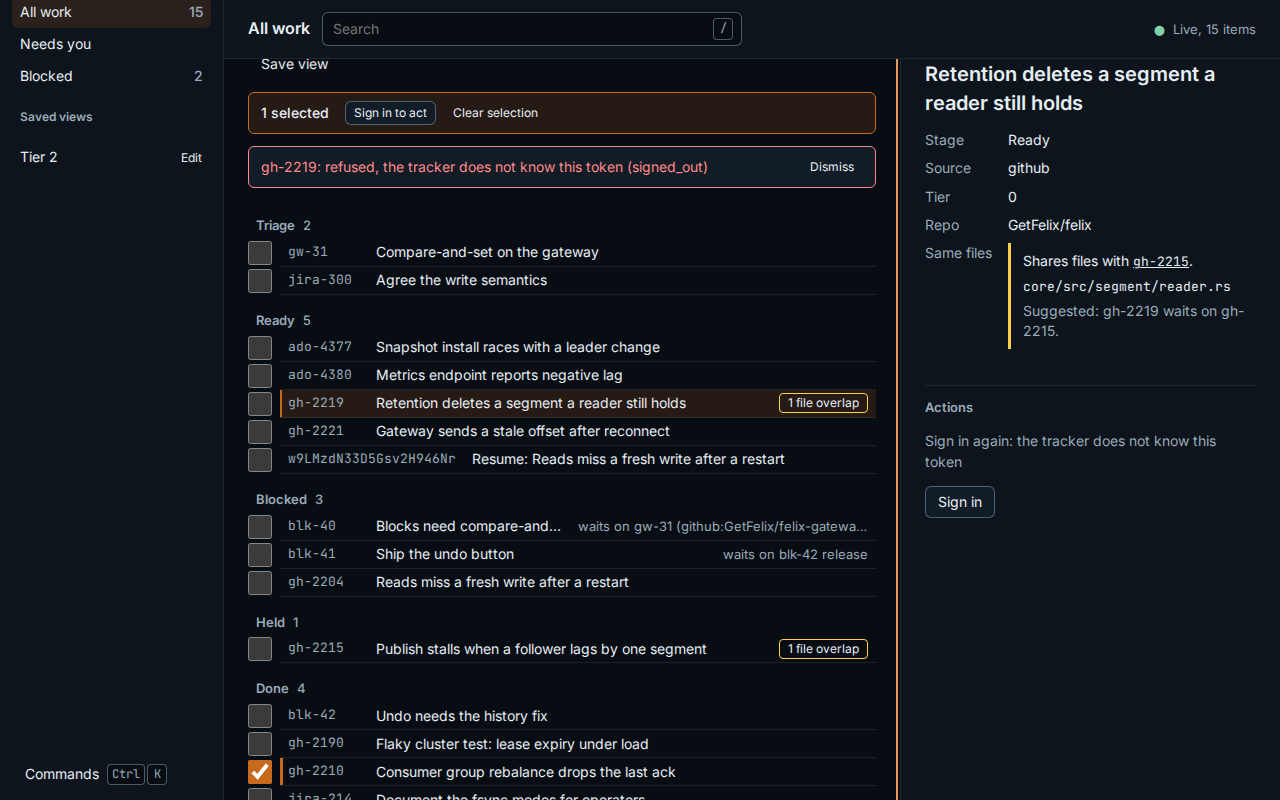
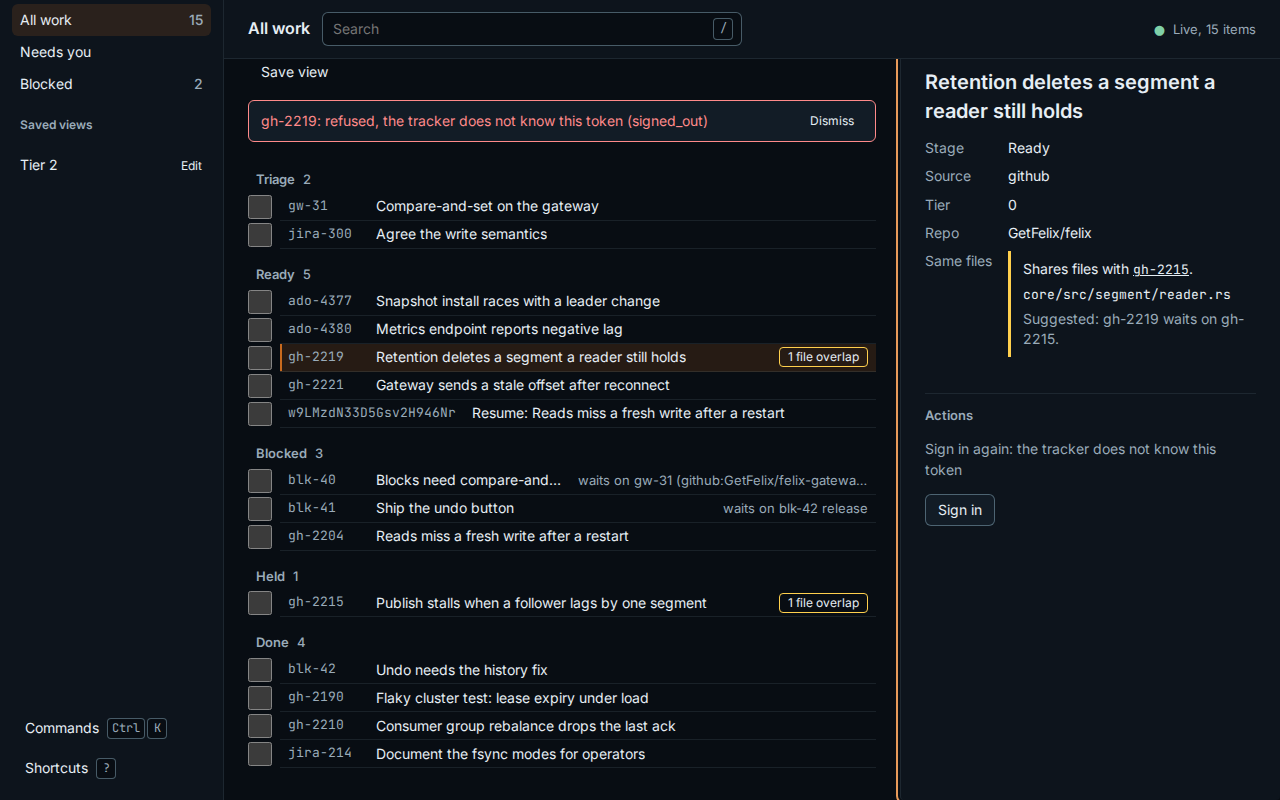
Address review: answer is an option or text, marks act only where shown, bulk accept keeps tiers
Undo shows once the tier change is back on the log; the activity line stays on the newest
batch; only a 401 or 403 signs the page out; a second click does not resend; focus stays in
the panel actions when they rebuild; sign-in checks ?team= is one of the person's teams.

diff --git a/dashboard/src/main.ts b/dashboard/src/main.ts
@@ -11,7 +11,7 @@ import { overlapNotes } from './overlap.ts';
 import { follow, FollowError } from './follow.ts';
 import { connect, GatewayError } from './gateway.ts';
 import { commandFor, type CommandId } from './keys.ts';
-import { boardEdge, flatten, move, moveBoard, shownRows, visible } from './list.ts';
+import { boardEdge, flatten, markedShown, move, moveBoard, shownRows, visible } from './list.ts';
 import { adviceFor, createStore, fromAddress, toAddress, type Density, type View, type ViewState } from './state.ts';
 import { deleteView, parseSaved, renameView, saveView, type SavedView } from './views.ts';
 import { helpView } from './ui/help-view.ts';
@@ -20,7 +20,7 @@ import { shell } from './ui/shell.ts';
 import { viewDialog } from './ui/view-dialog.ts';
 import { confirmDialog, signInDialog, type ConfirmKind } from './ui/write-dialogs.ts';
 import { Tracker } from './tracker.ts';
-import { CAN, NO_WRITES, request, undoFor, undoRequest, type Request, type Undo, type WriteArgs, type WriteKind } from './writes.ts';
+import { CAN, canUndo, NO_WRITES, pending, request, undoFor, undoRequest, type Request, type Undo, type WriteArgs, type WriteKind } from './writes.ts';
 
 const mac = /Mac|iPhone|iPad/.test(navigator.platform);
 const q = new URLSearchParams(location.search);
@@ -78,7 +78,8 @@ let writeIds = 0;
 /** What an action applies to: the marked items, else the selected one. */
 const targets = (): string[] => {
   const s = store.get();
-  if (s.marked.length) return s.marked;
+  const marked = markedShown(s);
+  if (marked.length) return marked.map((i) => i.id);
   return s.selected && s.items.some((i) => i.id === s.selected) ? [s.selected] : [];
 };
 
@@ -101,7 +102,7 @@ async function send(kind: WriteKind, jobs: { item: string; req: Request | string
     if (o.status === 'ok') store.dispatch({ type: 'write', write: { ...w, status: 'ok' } });
     else {
       store.dispatch({ type: 'write', write: { ...w, status: o.status, reason: o.reason, why: o.status === 'refused' ? o.why : undefined, undo: undefined } });
-      if (o.status === 'refused' && (o.why === 'signed_out' || o.why === 'forbidden') && t === tracker) {
+      if (o.status === 'refused' && o.signedOut && t === tracker) {
         tracker = null;
         store.dispatch({ type: 'tracker', tracker: { kind: 'refused', reason: o.reason } });
       }
@@ -111,18 +112,23 @@ async function send(kind: WriteKind, jobs: { item: string; req: Request | string
 
 const write = (ids: string[], args: WriteArgs) => {
   const s = store.get();
-  const jobs = ids.map((item) => {
+  // A second click while the first is in flight would send the same record twice.
+  const jobs = ids.filter((item) => !pending(s.writes, item)).map((item) => {
     const before = s.items.find((i) => i.id === item);
     const undo = args.kind === 'tier' && before ? undoFor(before, args.tier) : undefined;
     return { item, req: request(item, args), undo: typeof undo === 'object' ? undo : undefined };
   });
+  if (!jobs.length) return;
+  // Marks are done with once their action is sent, as in GitHub.
+  if (s.marked.length && ids.every((id) => s.marked.includes(id)) && ids.length > 0) store.dispatch({ type: 'marks', ids: [] });
   void send(args.kind, jobs);
 };
 
 const undoLast = () => {
   const s = store.get();
-  const done = s.writes.list.filter((w) => w.batch === s.writes.last && w.status === 'ok' && w.undo);
-  if (!done.length) return;
+  const batch = s.writes.list.filter((w) => w.batch === s.writes.last);
+  if (!canUndo(batch, s.items)) return;
+  const done = batch.filter((w) => w.status === 'ok' && w.undo);
   void send('undo', done.map((w) => ({ item: w.item, req: undoRequest(w.undo!, s.items) })));
 };
 
@@ -132,9 +138,14 @@ const signIn = async (token: string): Promise<string | null> => {
   const t = new Tracker((url, init) => fetch(url, init), token, team);
   const me = await t.me();
   if ('person' in me) {
-    if (!team && me.teams.length > 1) {
-      const reason = `You are in ${me.teams.length} teams; open the page with ?team= naming one (${me.teams.join(', ')}).`;
-      store.dispatch({ type: 'tracker', tracker: { kind: 'refused', reason } });
+    const reason =
+      !team && me.teams.length > 1
+        ? `You are in ${me.teams.length} teams; open the page with ?team= naming one (${me.teams.join(', ')}).`
+        : team && !me.teams.includes(team)
+          ? `You are not in the team ${team}; open the page with ?team= naming one of yours (${me.teams.join(', ')}).`
+          : null;
+    if (reason) {
+      store.dispatch({ type: 'tracker', tracker: tracker && before.kind === 'signed-in' ? before : { kind: 'refused', reason } });
       return reason;
     }
     tracker = t;

diff --git a/dashboard/src/writes.ts b/dashboard/src/writes.ts
@@ -80,6 +80,8 @@ export function request(item: string, a: WriteArgs): Request {
 /** What an answer form would send, or what is wrong with it (WCAG 3.3.1, 3.3.3). */
 export function checkAnswer(options: readonly string[], text: string, chosen: string | null): string | null {
   if (options.length > 0 && chosen === null && !text.trim()) return 'Pick an option, or write an answer.';
+  // The tracker takes one or the other, never both.
+  if (chosen !== null && text.trim()) return 'Pick an option or write an answer, not both. Clear the text to send the option.';
   if (options.length === 0 && !text.trim()) return 'Write an answer.';
   if (chosen !== null && !options.includes(chosen)) return 'That option is no longer offered.';
   // The tracker refuses inline text over 4 KiB; say so before sending.
@@ -89,7 +91,7 @@ export function checkAnswer(options: readonly string[], text: string, chosen: st
 
 export type Outcome =
   | { status: 'ok'; offset: number | null }
-  | { status: 'refused'; why: string; reason: string }
+  | { status: 'refused'; why: string; reason: string; signedOut?: true }
   | { status: 'failed'; reason: string };
 
 /**
@@ -103,8 +105,9 @@ export function outcome(status: number | null, body: unknown, network = ''): Out
   const why = typeof b.why === 'string' ? b.why : '';
   if (status === null) return { status: 'failed', reason: `Cannot reach the tracker${network ? `: ${network}` : ''}.` };
   if (status >= 200 && status < 300) return { status: 'ok', offset: typeof b.offset === 'number' ? b.offset : null };
-  if (status === 401) return { status: 'refused', why: why || 'signed_out', reason: error || 'The tracker does not know this token. Sign in again.' };
-  if (status === 403) return { status: 'refused', why: why || 'forbidden', reason: error || 'This token may not make that write.' };
+  // Only the status says the token itself was refused; a `why` in a 409 is the fold's.
+  if (status === 401) return { status: 'refused', why: why || 'signed_out', reason: error || 'The tracker does not know this token. Sign in again.', signedOut: true };
+  if (status === 403) return { status: 'refused', why: why || 'forbidden', reason: error || 'This token may not make that write.', signedOut: true };
   if (status === 400 || status === 404 || status === 409 || status === 422) {
     return { status: 'refused', why: why || String(status), reason: error || `The tracker refused it (${status}).` };
   }
@@ -145,6 +148,7 @@ export function undoRequest(u: Undo, items: readonly ItemRow[]): Request | strin
   const now = items.find((i) => i.id === u.item);
   if (!now) return `${u.item} is no longer in the log.`;
   if (!OPEN(now)) return `${u.item} is closed now.`;
+  if (now.tier === u.tier) return `${u.item}'s tier change has not come back on the log yet; try again in a moment.`;
   if (now.tier !== u.set) return `${u.item}'s tier changed again since; undo would overwrite that.`;
   return request(u.item, { kind: 'tier', tier: u.tier });
 }
@@ -176,7 +180,8 @@ const KEEP = 50;
 export function putWrite(w: Writes, write: Write): Writes {
   const at = w.list.findIndex((x) => x.id === write.id);
   const list = at < 0 ? [...w.list, write] : w.list.map((x, i) => (i === at ? write : x));
-  return { list: list.slice(-KEEP), last: write.batch };
+  // Batches can finish out of order; the activity line stays on the newest.
+  return { list: list.slice(-KEEP), last: Math.max(w.last ?? 0, write.batch) };
 }
 
 /** The newest write for an item, which the panel shows next to its actions. */
@@ -199,6 +204,12 @@ const DONE: Readonly<Record<WriteKind, [string, string]>> = {
 };
 
 const items = (ids: string[]) => (ids.length === 1 ? ids[0] : `${ids.length} items`);
+
+/** Whether Undo applies now: every undoable write's tier is on the log and nobody changed it since. */
+export function canUndo(batch: readonly Write[], items: readonly ItemRow[]): boolean {
+  const undos = batch.filter((x) => x.status === 'ok' && x.undo);
+  return undos.length > 0 && undos.every((x) => typeof undoRequest(x.undo!, items) !== 'string');
+}
 
 /** One line for the activity area: what is pending, what was written, and each refusal with its reason. */
 export function summary(batch: readonly Write[]): { text: string; tone: 'busy' | 'ok' | 'error'; undoable: boolean } {

diff --git a/dashboard/test/writes.test.ts b/dashboard/test/writes.test.ts
@@ -3,7 +3,7 @@ import test from 'node:test';
 import type { ItemRow } from '../src/fold.ts';
 import { reduce, type ViewState } from '../src/state.ts';
 import { Tracker, type Fetch } from '../src/tracker.ts';
-import { CAN, checkAnswer, latestFor, NO_WRITES, outcome, pending, putWrite, request, route, summary, undoFor, undoRequest, type Write } from '../src/writes.ts';
+import { CAN, canUndo, checkAnswer, latestFor, NO_WRITES, outcome, pending, putWrite, request, route, summary, undoFor, undoRequest, type Write } from '../src/writes.ts';
 
 const item = (o: Partial<ItemRow> & { id: string }): ItemRow => ({ title: o.id, stage: 'ready', tier: 1, ...o });
 
@@ -40,6 +40,8 @@ test('an answer form names what is missing before anything is sent', () => {
   assert.equal(checkAnswer(['a', 'b'], '', null), 'Pick an option, or write an answer.');
   assert.equal(checkAnswer(['a'], '', 'a'), null);
   assert.equal(checkAnswer(['a'], '', 'gone'), 'That option is no longer offered.');
+  // The tracker refuses an answer with both an option and text.
+  assert.match(checkAnswer(['a'], 'and also', 'a')!, /not both/);
   assert.match(checkAnswer([], 'x'.repeat(5000), null)!, /4 KiB/);
 });
 
@@ -51,6 +53,9 @@ test('a refusal keeps the tracker’s own reason and code', () => {
     reason: 'the fold refused the record: not a proposal',
   });
   assert.equal((outcome(401, null) as { why: string }).why, 'signed_out');
+  // Only a 401 or 403 signs the page out, never a fold refusal that happens to say so.
+  assert.equal((outcome(401, null) as { signedOut?: true }).signedOut, true);
+  assert.equal((outcome(409, { error: 'x', why: 'forbidden' }) as { signedOut?: true }).signedOut, undefined);
   assert.equal(outcome(503, { error: 'team busy' }).status, 'failed');
   assert.match((outcome(null, null, 'Failed to fetch') as { reason: string }).reason, /Cannot reach the tracker: Failed to fetch/);
 });
@@ -66,6 +71,10 @@ test('only a tier change can be undone, and only while nobody changed it again',
   assert.match(undoRequest(u, [item({ id: 'a', tier: 0 })]) as string, /changed again since/);
   assert.match(undoRequest(u, [item({ id: 'a', tier: 3, stage: 'closed' })]) as string, /closed now/);
   assert.match(undoRequest(u, []) as string, /no longer in the log/);
+  // Until the change comes back on the log there is nothing to undo yet.
+  assert.match(undoRequest(u, [item({ id: 'a', tier: 1 })]) as string, /not come back/);
+  const ok = { id: 1, batch: 1, kind: 'tier' as const, item: 'a', status: 'ok' as const, undo: u };
+  assert.deepEqual([canUndo([ok], [item({ id: 'a', tier: 1 })]), canUndo([ok], [item({ id: 'a', tier: 3 })])], [false, true]);
 });
 
 test('the write list moves from pending to a result and says so in one line', () => {
@@ -80,6 +89,9 @@ test('the write list moves from pending to a result and says so in one line', ()
   assert.equal(latestFor(ws, 'b')?.status, 'refused');
   assert.deepEqual(summary(ws.list), { text: 'Set the tier of a. b: refused, the item is closed (closed)', tone: 'error', undoable: true });
   assert.equal(ws.last, 1);
+  // A slower, older batch finishing late does not take the activity line back.
+  const later = putWrite(putWrite(ws, w({ id: 3, item: 'c', batch: 2 })), { ...ws.list[0], batch: 1, status: 'failed', reason: 'x' });
+  assert.equal(later.last, 2);
 });
 
 test('marks toggle, and a mark on an item the log no longer has is dropped', () => {
@@ -116,4 +128,8 @@ test('the Needs you inbox is a view in the address that holds only items waiting
   assert.equal(encodeView('', { view: 'inbox', layout: 'list', query: '', filters: {} }), 'view=inbox');
   const items = [item({ id: 'a', stage: 'needs_you', needs: 'question' }), item({ id: 'b' })];
   assert.deepEqual(inScope({ items, blocked: [], view: 'inbox' }).map((i) => i.id), ['a']);
+  // A bulk action reaches only the marks the view shows.
+  const { markedShown } = await import('../src/list.ts');
+  const marks = { items, blocked: [], view: 'all' as const, query: 'b', filters: {}, marked: ['a', 'b'] };
+  assert.deepEqual(markedShown(marks).map((i) => i.id), ['b']);
 });

diff --git a/dashboard/src/ui/item-actions.ts b/dashboard/src/ui/item-actions.ts
@@ -46,6 +46,7 @@ const PENDING: Record<WriteKind, string> = {
 export function itemActions(on: WriteHandlers) {
   const el = h('section', { class: 'actions', 'aria-labelledby': 'actions-title' });
   let built = '';
+  let auth = '';
   let tier: HTMLSelectElement | null = null;
   let status: HTMLElement = h('p');
   const guard = (s: () => ViewState, item: string, run: () => void) => () => {
@@ -70,7 +71,7 @@ export function itemActions(on: WriteHandlers) {
       h('h4', { id: 'answer-title' }, 'Answer the question'),
       h('p', { class: 'question' }, asked ?? 'The question’s text is stored as an artifact, outside the log.'),
       radios.length ? h('fieldset', {}, h('legend', { class: 'field-label' }, 'Options'), ...radios) : null,
-      h('label', { for: 'answer-text', class: 'field-label' }, radios.length ? 'Answer in words (optional with an option)' : 'Answer'),
+      h('label', { for: 'answer-text', class: 'field-label' }, radios.length ? 'Or answer in words instead' : 'Answer'),
       text,
       h('p', { id: 'answer-help', class: 'muted small' }, 'Sending cannot be undone: the answer starts the work that resumes from it.'),
       error,
@@ -98,10 +99,13 @@ export function itemActions(on: WriteHandlers) {
     render(item: ItemRow, s: ViewState): HTMLElement {
       current = () => s;
       const kinds = (Object.keys(CAN) as (keyof typeof CAN)[]).filter((k) => CAN[k](item));
-      const key = `${item.id}|${kinds.join(',')}|${s.tracker.kind}|${item.question}|${(item.options ?? []).join('\u0000')}|${item.question == null ? '' : s.questions.get(item.question)}`;
+      // `checking` keeps the last sign-in state, so checking a token does not rebuild the form.
+      if (s.tracker.kind !== 'checking') auth = s.tracker.kind === 'refused' ? `refused:${s.tracker.reason}` : s.tracker.kind;
+      const key = `${item.id}|${kinds.join(',')}|${auth}|${item.question}|${(item.options ?? []).join('\u0000')}|${item.question == null ? '' : s.questions.get(item.question)}`;
       if (key !== built) {
         built = key;
-        const head = h('h3', { id: 'actions-title', class: 'actions-title' }, 'Actions');
+        const hadFocus = el.contains(document.activeElement) ? ((document.activeElement as HTMLElement).dataset.focus ?? '') : null;
+        const head = h('h3', { id: 'actions-title', class: 'actions-title', tabindex: '-1' }, 'Actions');
         status = h('p', { class: 'write-status' });
         tier = null;
         if (kinds.length === 0) {
@@ -126,6 +130,11 @@ export function itemActions(on: WriteHandlers) {
             kinds.includes('answer') ? answerForm(item, s) : null,
             status];
           el.replaceChildren(...parts.filter((p): p is HTMLElement => p !== null));
+        }
+        // The control that had the focus is gone (the item moved stage, say); keep it in the actions.
+        if (hadFocus !== null && !el.contains(document.activeElement)) {
+          const same = hadFocus ? el.querySelector<HTMLElement>(`[data-focus="${hadFocus}"]`) : null;
+          (same ?? head).focus({ preventScroll: true });
         }
       }
       // In place: what the last write on this item did, and whether one is in flight.

diff --git a/dashboard/src/ui/write-dialogs.ts b/dashboard/src/ui/write-dialogs.ts
@@ -28,6 +28,12 @@ export function confirmDialog(send: (ids: string[], args: WriteArgs) => void) {
       const c = COPY[kind];
       const name = list.length === 1 ? list[0].id : `${list.length} items`;
       const tier = kind === 'accept' ? tierSelect('confirm-tier', list.length === 1 ? list[0].tier : null) : null;
+      // Several proposals may carry different tiers; by default each keeps its own.
+      if (tier && list.length > 1) {
+        const keep = h('option', { value: '' }, 'Keep each item’s tier');
+        tier.prepend(keep);
+        keep.selected = true;
+      }
       const why = kind === 'close' ? h('select', { id: 'confirm-why', class: 'field select' }, ...CLOSE_WHY.map(([v, label]) => h('option', { value: v }, label))) : null;
       const go = h('button', { type: 'submit', class: c.cls }, c.send);
       const cancel = h('button', { type: 'button', class: 'button ghost', onclick: () => m.close() }, 'Cancel');
@@ -53,7 +59,7 @@ export function confirmDialog(send: (ids: string[], args: WriteArgs) => void) {
         e.preventDefault();
         m.close();
         const ids = list.map((i) => i.id);
-        if (kind === 'accept') send(ids, { kind, tier: Number(tier!.value) });
+        if (kind === 'accept') send(ids, { kind, tier: tier!.value === '' ? null : Number(tier!.value) });
         else if (kind === 'close') send(ids, { kind, why: why!.value as CloseWhy });
         else send(ids, { kind });
       });

diff --git a/dashboard/src/ui/bulk-bar.ts b/dashboard/src/ui/bulk-bar.ts
@@ -2,7 +2,8 @@
 // what the last write did. The line is a status region that stays until the next write
 // or Dismiss, so nobody has to read a refusal before a timer hides it (WCAG 2.2.1).
 import type { ViewState } from '../state.ts';
-import { CAN, summary } from '../writes.ts';
+import { markedShown } from '../list.ts';
+import { CAN, canUndo, summary } from '../writes.ts';
 import { h } from './dom.ts';
 import { tierSelect, type WriteHandlers } from './item-actions.ts';
 
@@ -34,7 +35,7 @@ export function bulkBar(on: WriteHandlers) {
       dismissed = batch;
     },
     render(s: ViewState) {
-      const marked = s.items.filter((i) => s.marked.includes(i.id));
+      const marked = markedShown(s);
       bar.hidden = marked.length === 0;
       const signedIn = s.tracker.kind === 'signed-in';
       ids = {
@@ -59,7 +60,8 @@ export function bulkBar(on: WriteHandlers) {
       const t = line?.text ?? '';
       if (text.textContent !== t) text.textContent = t;
       activity.dataset.tone = line?.tone ?? '';
-      undo.hidden = !line?.undoable;
+      // Hidden until the change is back on the log, so Undo never answers that it cannot yet.
+      undo.hidden = !line?.undoable || !canUndo(batch, s.items);
     },
   };
 }

diff --git a/dashboard/src/list.ts b/dashboard/src/list.ts
@@ -77,6 +77,12 @@ export function shownRows(s: Pick<ViewState, 'items' | 'blocked' | 'view' | 'que
   return flatten(visible(s));
 }
 
+/** The marked items the view shows now. A bulk action never reaches an item a search or filter hides. */
+export function markedShown(s: Pick<ViewState, 'items' | 'blocked' | 'view' | 'query' | 'filters' | 'marked'>): ItemRow[] {
+  const marked = new Set(s.marked);
+  return shownRows(s).filter((i) => marked.has(i.id));
+}
+
 export type Direction = 'up' | 'down' | 'left' | 'right';
 
 /**

diff --git a/dashboard/README.md b/dashboard/README.md
@@ -70,7 +70,7 @@ delay up to 30 s.
 
 ## Writes
 
-Writes go to the tracker's person routes ([the dashboard's actions](../docs/work-tracker.md)) with your own
+Writes go to the tracker's person routes ([the dashboard's actions](../docs/work-tracker.md#running-the-tracker)) with your own
 person token, so the page can do exactly what that token can and nothing more. Sign in (in the panel, the bulk
 bar or the palette) asks for the token, checks it with `GET /v1/me`, and keeps it in memory for this tab only:
 not in the address or local storage, so a reload asks again.
@@ -84,16 +84,17 @@ to the tracker. A person token in several teams needs `&team=<team>` in the addr
 | --- | --- | --- | --- |
 | Accept | Triage, Proposed | `POST /v1/work/proposals/accept` | No: nothing takes an acceptance back. Asks to confirm |
 | Reject | Proposed | `POST /v1/work/proposals/reject` | No. Asks to confirm |
-| Set tier | Open work | `POST /v1/work/tier` | Yes, while the tier is still the one set: a new `tier_changed` back |
+| Set tier | Open work | `POST /v1/work/tier` | Yes, once the change is on the log and while the tier is still the one set: a new `tier_changed` back |
 | Close | Open work | `POST /v1/work/close` (`dismissed` or `completed`) | No: open children are cancelled. Asks to confirm |
-| Answer | An open question | `POST /v1/work/questions/answer` | No: the answer starts the resumed work |
+| Answer | An open question | `POST /v1/work/questions/answer` | No: the answer starts the resumed work. Pick an option or write an answer, not both |
 
 Claiming is not offered: it is an agent's, and the fold refuses `claimed` from a person.
 
 Each write shows as pending on the item and in the activity line above the work, then as written or refused.
 A refusal shows the tracker's reason and its code (`closed`, `not_open_question`, ...). The list itself changes
 only when the record arrives on the log. `X` marks the focused item (each list row also has a checkbox for the mouse), and the
-bulk bar acts on the marked items, one call per item; `Esc` clears the marks. The Needs you view
+bulk bar acts on the marked items the view shows, one call per item, then clears the marks; `Esc` clears them
+too. A bulk accept keeps each item's own tier unless you pick one. The Needs you view
 (`?view=inbox`) lists what waits on a person and why.
 
 ## How it follows the log

diff --git a/docs/design/dashboard-ux.md b/docs/design/dashboard-ux.md
@@ -102,14 +102,16 @@ page does and checks a message gets through, and CI runs the page itself in Chro
   token the tracker stops taking signs the page out with its reason.
 - **Undo.** Only a tier change can be undone (`Mod+Z` or Undo): the undo is a new `tier_changed` record
   setting the old tier back, never a delete, and it is offered only while the item still has the tier the
-  write set, so it cannot overwrite someone else's change. The rest cannot be, and the confirm step says
+  write set, and only once that change is back on the log, so it does not undo someone else's later change. The rest cannot be, and the confirm step says
   why: no record takes back an acceptance, a rejected proposal stays rejected, a close cancels the item's
   open children (a reopened root goes back to Triage with them still cancelled), and an answer starts the
   work that resumes from it.
 - **Multi-select.** `X` marks the focused item, as in Linear and GitHub; each list row also has a checkbox for the mouse, kept out of the Tab order so Tab still moves row to row,
   beside its link, and board cards say Selected in text. The bulk bar counts the marks and offers only what
-  some of them allow, with the count it applies to ("Accept 2…"). A bulk action is one call per item, in
-  order, and the activity line reports each refusal. `Esc` clears the marks once nothing else is open.
+  some of them allow, with the count it applies to ("Accept 2…"). It acts only on marks the view shows,
+  so a search never hides what it changes. A bulk accept keeps each item's own tier unless one is picked.
+  A bulk action is one call per item, in order, the activity line reports each refusal, and the marks
+  clear once it is sent, as in GitHub. `Esc` clears the marks once nothing else is open.
 - **Needs you.** A sidebar view (`?view=inbox`) of the items waiting on a person, each saying why from the
   fold's `needs` ("An agent asked a question", "A check failed"). The panel shows the same as a field, and an
   open question's text, options and default come from the question record.

diff --git a/docs/threat-model.md b/docs/threat-model.md
@@ -149,8 +149,8 @@ The page has no authority of its own; the tracker's checks are the only checks.
 | A token left behind in the browser | Typed into a password field, kept in memory for the tab, never in the address, local storage or the view state (`dashboard/src/main.ts`) |
 | Another site makes writes as the person (CSRF) | The token goes in an `Authorization` header the page sets, not a cookie, so a request from another origin carries nothing |
 | An upstream title runs as script in the page | Views build elements with `dashboard/src/ui/dom.ts`, which never parses HTML |
-| A bulk action does more than the person could | Each item is its own call through the same route and checks, one at a time, so it also takes one of the team's in-flight slots at a time |
-| An undo overwrites someone else's change | Only a tier change has an undo, a new `tier_changed`, and the page offers it only while the item still has the tier it set |
+| A bulk action does more than the person could | Each item is its own call through the same route and checks, one after another within the action, and only on marked items the view shows (`dashboard/src/list.ts`) |
+| An undo overwrites someone else's change | Only a tier change has an undo, a new `tier_changed`, and the page offers it only while its own view of the log shows the tier it set. The tier route itself is unconditional, so a change that lands between that look and the undo is overwritten; the log keeps both |
 
 ### Ingest routes and health
 
